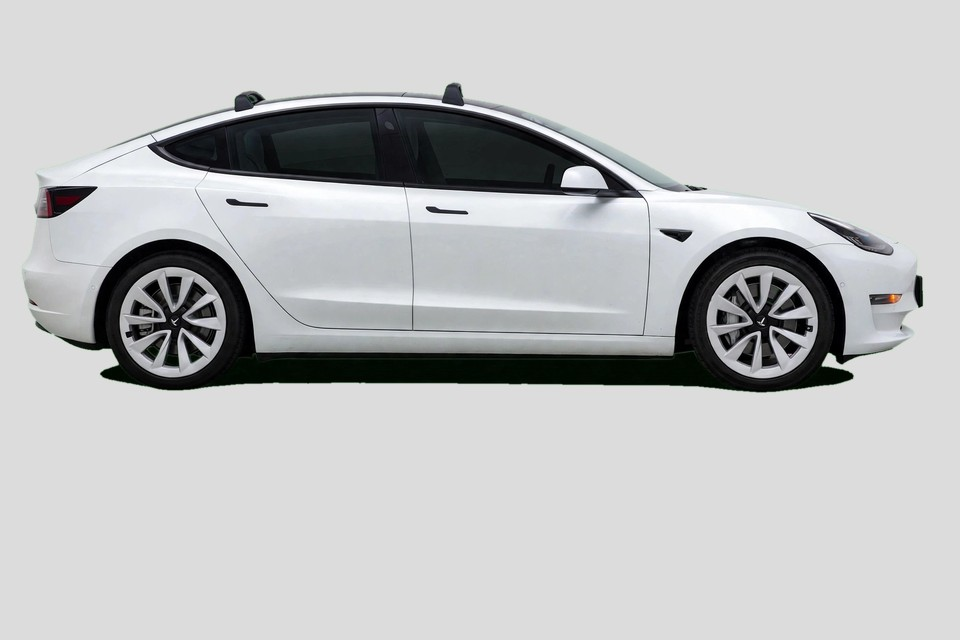
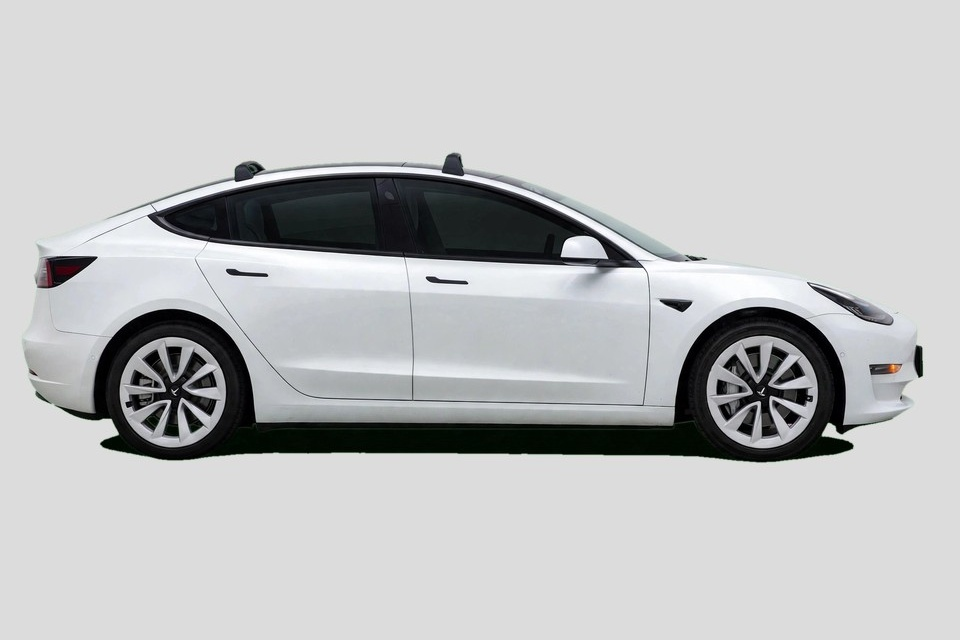
v14: starship card framing fix + today's route lines on map

diff --git a/app.js b/app.js
@@ -22,8 +22,8 @@ const FSD_VINS = new Set([
  * Photos face right (nose at +x). */
 const WHEEL_SPECS = {
   "5YJ3E1EA2JF051492": [{ cx: 0.806, cy: 0.722, r: 0.077 }, { cx: 0.199, cy: 0.724, r: 0.075 }],
-  "5YJ3E1EA7JF015751": [{ cx: 0.769, cy: 0.780, r: 0.064 }, { cx: 0.240, cy: 0.780, r: 0.064 }],
-  "5YJ3E1EA9SF060398": [{ cx: 0.792, cy: 0.750, r: 0.072 }, { cx: 0.219, cy: 0.751, r: 0.069 }],
+  "5YJ3E1EA7JF015751": [{ cx: 0.795, cy: 0.605, r: 0.058 }, { cx: 0.184, cy: 0.610, r: 0.058 }],
+  "5YJ3E1EA9SF060398": [{ cx: 0.815, cy: 0.758, r: 0.055 }, { cx: 0.220, cy: 0.760, r: 0.057 }],
 };
 
 const store = {
@@ -106,6 +106,10 @@ async function getDrives(vin) {
       dist: x.odometer_distance || 0,
       kwh: x.energy_used || 0,
       ap: x.autopilot_distance || 0,
+      sLat: (x.starting_latitude === null || x.starting_latitude === undefined) ? null : x.starting_latitude,
+      sLon: (x.starting_longitude === null || x.starting_longitude === undefined) ? null : x.starting_longitude,
+      eLat: (x.ending_latitude === null || x.ending_latitude === undefined) ? null : x.ending_latitude,
+      eLon: (x.ending_longitude === null || x.ending_longitude === undefined) ? null : x.ending_longitude,
     }));
     drivesCache[vin] = { ts: Date.now(), drives };
   } catch (e) { drives = (c && c.drives) || []; }
@@ -503,6 +507,8 @@ function initMap() {
   });
   satelliteLayer.addTo(map);  /* satellite is the default base layer */
   carLayer = L.layerGroup().addTo(map);
+  routeLayer = L.layerGroup();
+  if (routesOn) routeLayer.addTo(map);
   buildMapCtl();
   loadRadar();
   setInterval(loadRadar, 10 * 60 * 1000);
@@ -513,16 +519,26 @@ function buildMapCtl() {
   const bS = L.DomUtil.create("button", "", mapCtl); bS.textContent = "Streets";
   const bT = L.DomUtil.create("button", "", mapCtl); bT.textContent = "Satellite";
   const bR = L.DomUtil.create("button", "", mapCtl); bR.textContent = "Radar";
+  const bRt = L.DomUtil.create("button", "", mapCtl); bRt.textContent = "Routes";
+  bRt.title = "Today's drive routes — road-following approximations, not exact GPS";
   const paint = () => {
     bS.className = map.hasLayer(streetsLayer) ? "active" : "";
     bT.className = map.hasLayer(satelliteLayer) ? "active" : "";
     bR.className = (radarOn && radarLayer) ? "active" : "";
+    bRt.className = routesOn ? "active" : "";
   };
   bS.onclick = () => { map.removeLayer(satelliteLayer); streetsLayer.addTo(map); paint(); };
   bT.onclick = () => { map.removeLayer(streetsLayer); satelliteLayer.addTo(map); paint(); };
   bR.onclick = () => {
     radarOn = !radarOn;
     if (radarLayer) { if (radarOn) radarLayer.addTo(map); else map.removeLayer(radarLayer); }
+    paint();
+  };
+  bRt.onclick = () => {
+    routesOn = !routesOn;
+    try { localStorage.setItem("tw_routes_on", routesOn ? "1" : "0"); } catch (e) {}
+    if (routeLayer) { if (routesOn) routeLayer.addTo(map); else map.removeLayer(routeLayer); }
+    if (routesOn) updateRoutes(carsCache);
     paint();
   };
   L.DomEvent.disableClickPropagation(mapCtl);
@@ -551,6 +567,103 @@ function loadRadar() {
         if (mapCtl && mapCtl._paint) mapCtl._paint();
       }
     }).catch(() => {});
+}
+
+/* ---------- today's route lines (OSRM road-following approximations) ----------
+ * Tessie has no GPS breadcrumbs, so each of today's drives is re-routed along
+ * roads between its start/end points via the free OSRM demo server. These are
+ * approximations of the path driven, NOT the car's exact GPS track. */
+const ROUTE_COLORS = {
+  "5YJ3E1EA2JF051492": "#64d2ff",  /* Caroline's whip — blue */
+  "5YJ3E1EA7JF015751": "#ff9f0a",  /* The Starship — orange */
+  "5YJ3E1EA9SF060398": "#bf5af2",  /* Miracle Whip — purple */
+};
+let routeLayer = null;
+let routesOn = true;
+try { routesOn = (localStorage.getItem("tw_routes_on") || "1") === "1"; } catch (e) {}
+let routeQueue = [];
+let routeTimer = null;
+let routeGen = 0;
+
+function routeCacheKey(vin, sLat, sLon, eLat, eLon) {
+  return [vin, sLat.toFixed(4), sLon.toFixed(4), eLat.toFixed(4), eLon.toFixed(4)].join("|");
+}
+function getRouteCache() {
+  try { return JSON.parse(localStorage.getItem("tw_routes") || "{}"); }
+  catch (e) { return {}; }
+}
+function setRouteCache(obj) {
+  try {
+    const keys = Object.keys(obj);
+    if (keys.length > 150) {
+      const drop = keys.slice(0, keys.length - 150);
+      for (const k of drop) delete obj[k];
+    }
+    localStorage.setItem("tw_routes", JSON.stringify(obj));
+  } catch (e) {}
+}
+/* local midnight, browser-local, epoch seconds */
+function todayStartSecs() {
+  const n = new Date();
+  return new Date(n.getFullYear(), n.getMonth(), n.getDate()).getTime() / 1000;
+}
+/* today's drives worth drawing: >= 0.5 mi with usable endpoints, max 10/car */
+function routeableDrives(drives) {
+  const t0 = todayStartSecs();
+  return (drives || [])
+    .filter(d => d.startedAt >= t0 && (d.dist || 0) >= 0.5 &&
+      d.sLat !== null && d.sLon !== null && d.eLat !== null && d.eLon !== null)
+    .slice(0, 10);
+}
+/* OSRM wants lon,lat order */
+function osrmUrl(sLat, sLon, eLat, eLon) {
+  return "https://router.project-osrm.org/route/v1/driving/" +
+    sLon + "," + sLat + ";" + eLon + "," + eLat +
+    "?overview=full&geometries=geojson";
+}
+function drawRouteLine(vin, latlons) {
+  if (!routeLayer || !latlons || latlons.length < 2) return;
+  L.polyline(latlons, { color: ROUTE_COLORS[vin] || "#64d2ff", weight: 4, opacity: 0.7 })
+    .addTo(routeLayer);
+}
+async function fetchRoute(d, vin, gen) {
+  try {
+    const r = await fetch(osrmUrl(d.sLat, d.sLon, d.eLat, d.eLon));
+    const j = await r.json();
+    const coords = j.routes && j.routes[0] && j.routes[0].geometry &&
+      j.routes[0].geometry.coordinates;
+    if (!coords || coords.length < 2 || gen !== routeGen) return;
+    const latlons = coords.map(p => [p[1], p[0]]);  /* GeoJSON is [lon,lat] */
+    const c = getRouteCache();
+    c[routeCacheKey(vin, d.sLat, d.sLon, d.eLat, d.eLon)] = latlons;
+    setRouteCache(c);
+    drawRouteLine(vin, latlons);
+  } catch (e) { /* skip this drive's line quietly */ }
+}
+function pumpRouteQueue() {
+  if (!routeQueue.length) { routeTimer = null; return; }
+  const job = routeQueue.shift();
+  fetchRoute(job.d, job.vin, job.gen).finally(() => {
+    routeTimer = setTimeout(pumpRouteQueue, 1000);  /* ~1 req/sec courtesy */
+  });
+}
+function updateRoutes(cars) {
+  routeGen++;
+  if (!routeLayer) return;
+  routeLayer.clearLayers();
+  routeQueue = [];
+  if (routeTimer) { clearTimeout(routeTimer); routeTimer = null; }
+  if (!routesOn) return;
+  const cache = getRouteCache();
+  for (const car of cars) {
+    const drives = (drivesCache[car.vin] && drivesCache[car.vin].drives) || [];
+    for (const d of routeableDrives(drives)) {
+      const key = routeCacheKey(car.vin, d.sLat, d.sLon, d.eLat, d.eLon);
+      if (cache[key]) drawRouteLine(car.vin, cache[key]);
+      else routeQueue.push({ d, vin: car.vin, gen: routeGen });
+    }
+  }
+  if (routeQueue.length) pumpRouteQueue();
 }
 
 function renderMap(cars) {
@@ -724,6 +837,7 @@ async function refresh() {
     const cars = await poll();
     renderCards(cars);
     renderMap(cars);
+    updateRoutes(cars);
     renderFleetStrip(cars);
     if (needHomeNudge && !isHomeSet()) {
       errBox.hidden = false;

diff --git a/index.html b/index.html
@@ -1,4 +1,4 @@
-<!-- Smith Robotaxi HQ build 2026-10-07 v13 -->
+<!-- Smith Robotaxi HQ build 2026-10-07 v14 -->
 <!DOCTYPE html>
 <html lang="en">
 <head>
@@ -122,6 +122,6 @@
 </div>
 
 <script src="https://unpkg.com/leaflet@1.9.4/dist/leaflet.js"></script>
-<script src="app.js?v=20261007v13"></script>
+<script src="app.js?v=20261007v14"></script>
 </body>
 </html>
